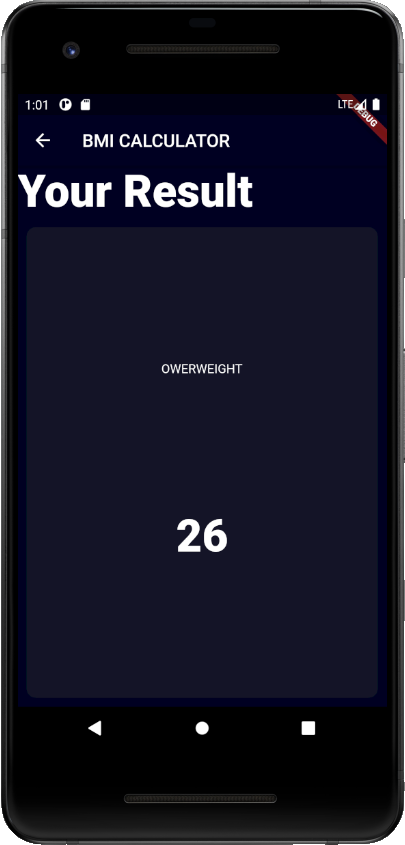
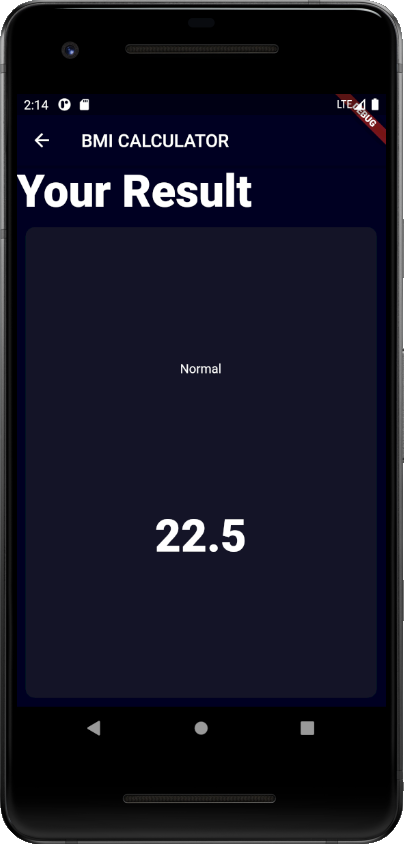
Added screenshot.

diff --git a/lib/results_page.dart b/lib/results_page.dart
@@ -23,8 +23,8 @@ class ResultsPage extends StatelessWidget {
               cardChild: Column(
                 mainAxisAlignment: MainAxisAlignment.spaceEvenly,
                 children: <Widget>[
-                  Text('OWERWEIGHT'),
-                  Text('26', style: kDefaultNumStyle,)
+                  Text('Normal'),
+                  Text('22.5', style: kDefaultNumStyle,)
                 ],
               ),
 
